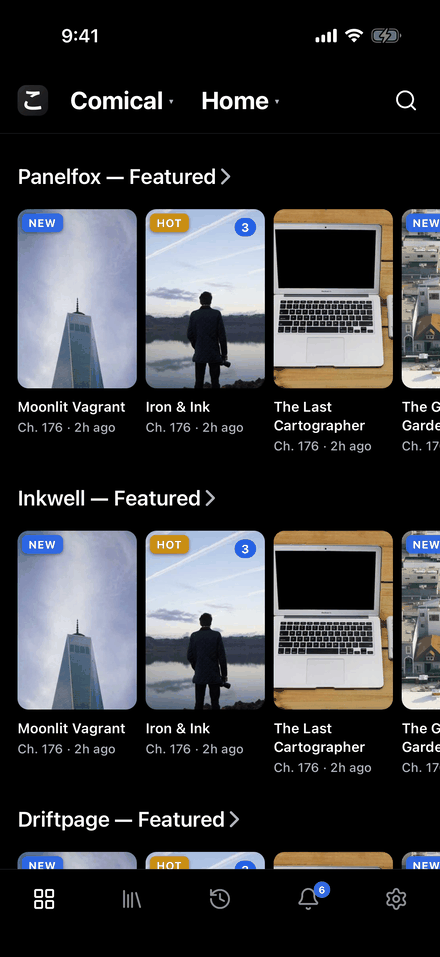
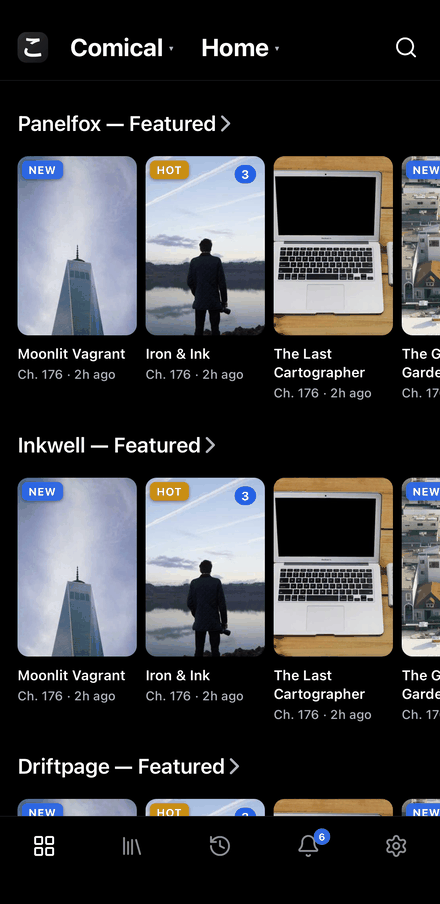
Crop the status bar out of the screenshots
The clock, wifi and battery say nothing about the app and date the shot.
Cropping them leaves each screenshot starting at the app's own header.

Expressed as a fraction of height rather than a pixel count: the simulator
is whichever iPhone the runtime offers, so the raw height moves when that
does. 5.5% clears the bar with room to spare and stops short of the app's
first row.

The committed screenshots are cropped in place too, so the README improves
now rather than only after the next capture. They still show the picsum
covers -- a fresh dispatch is what replaces those with the drawn ones.

diff --git a/apps/mobile/e2e/README.md b/apps/mobile/e2e/README.md
@@ -255,9 +255,11 @@ from ~890KB to ~355KB. Pass `from_run` to reuse an earlier run's Simulator `.app
 
 The build under test must carry `EXPO_PUBLIC_COMICAL_DEMO_MODE=1` (deterministic mock data, so
 consecutive shoots show the same series) **and** `EXPO_PUBLIC_COMICAL_CAPTURE_MODE=1`, which
-suppresses the demo-preview pill that would otherwise sit in frame. The workflow passes both, sets
-the simulator to dark appearance and pins the status bar to 9:41 so re-shoots match, then
-downscales and uploads the PNGs. Every step waits for the screen to settle before the shutter —
+suppresses the demo-preview pill that would otherwise sit in frame. The workflow passes both, sets the simulator to dark appearance, then crops the status bar off,
+downscales and uploads the PNGs. The crop is a fraction of height rather than a pixel count,
+because the simulator is whichever iPhone the runtime offers and the raw height moves with it.
+The 9:41 status-bar pin is kept even though the bar is cropped — it costs nothing and means a
+capture taken without the crop still matches its predecessors. Every step waits for the screen to settle before the shutter —
 mock covers resolve asynchronously, and a shot taken a beat early catches a grid of placeholders.
 
 ### Why stills, and not a recording
